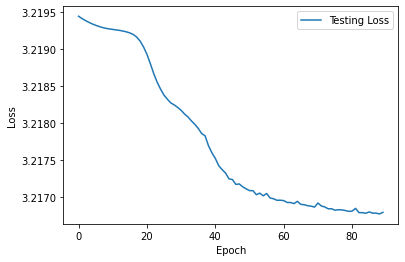
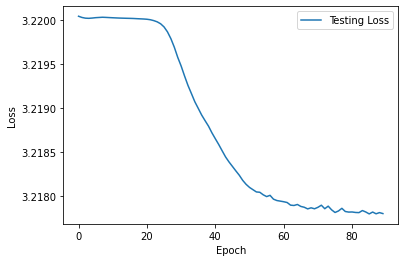
updated README

diff --git a/README.md b/README.md
@@ -1,4 +1,4 @@
-The goal of this work is to study the damage level of buildings after the 2009 earthquake that devastated the italian city "L'Aquila" and its surroundings. The dataset contains info about around 50'000 buildings. The goal is to predict the damage level of each building, which is a categorical variable with 4 levels, using a range of information regarding the buildings such as the number of floors, age of the building, GPS coordinates of the building, etc. 
+The goal of this work is to study the damage level of buildings after the 2009 earthquake that devastated the italian city "L'Aquila" and its surroundings. The dataset contains info about around 50'000 buildings. The goal is to predict the damage level of each building, which is a categorical variable with 4 levels, using a range of information regarding the buildings such as the number of floors, age of the building, latitude and longitude of the building etc. 
 More details about the dataset can be found in the data_preprocessing notebook where we created a one-hot signature for each building. It is worth noting that the model will not be given the coordinates of the epicenters of the earthquakes, but we will show that the model can identify the highest risk area despite this and automatically center it on the epicenters of the earthquakes.
 
 Let's now work on the model to try and predict the damage level of each building. Let's start by importing the necessary libraries and the dataset containing the one-hot signatures created in the previous notebook.
@@ -577,20 +577,20 @@ train(model, train_loader, test_loader, BalancedBCELoss(), optim.Adam(model.para
     
 
 
-    100%|███████████████████████████████████████████████████████████████████████████████████████████████████████████████████████████████████████████████| 90/90 [16:48<00:00, 11.20s/it]
+    100%|█████████████████████████████████████████████████████████████████████████████████████████████████████████████████████████████████| 90/90 [16:16<00:00, 10.85s/it]
 
-    Epoch 90/90: Training Loss: 3.2179 Test Loss: 3.2168 
+    Epoch 90/90: Training Loss: 3.2176 Test Loss: 3.2178 
     Test Score:
                    precision    recall  f1-score   support
     
-               0       0.94      0.53      0.68      7978
-               1       0.12      0.17      0.14       545
-               2       0.14      0.56      0.23       492
-               3       0.10      0.37      0.16       703
+               0       0.93      0.54      0.68      7955
+               1       0.08      0.20      0.12       493
+               2       0.16      0.53      0.25       480
+               3       0.11      0.31      0.16       790
     
         accuracy                           0.50      9718
-       macro avg       0.33      0.41      0.30      9718
-    weighted avg       0.79      0.50      0.59      9718
+       macro avg       0.32      0.40      0.30      9718
+    weighted avg       0.78      0.50      0.59      9718
      
     
 
@@ -633,14 +633,277 @@ risk_map = plot_risk_map_unnormalized(model, train_loader, grid_size=0.01)
 ![png](notebook_files/notebook_27_1.png)
     
 
+
 The plot shows the epicenter of the main event in the 2009 earthquake series as a red cross, while the dots represent the recorded sites in the testing dataset. The dots are color-coded based on their actual damage in the dataset, which ranges from 0 to 3, specifically damage to the staircase structure. However, looking at the damages recorded in the testing dataset alone is insufficient for identifying the highest risk zone. This is because the damage of each building is linked not only to its coordinates but also to its individual building characteristics, such as construction quality or number of floors.
 
 To ensure that the model is deriving useful insights from the data, it is crucial to prove that it can separate the spatial dependency of damage from all other building properties. To achieve this, we created dummy buildings with the same characteristics as those in the dataset, but with different coordinates. These buildings were placed on a grid centered around the epicenter, and the vector representation of each dummy building was provided as input to the trained model. The model predicted the damage level for each building if it were located at the chosen point, and the expected damage for each point on the grid was calculated and averaged.
 
 By averaging over many different buildings for each point, the aim is to cancel out the dependence on all other variables, highlighting only the spatial dependence. This also allowed for the interpolation of a 'continuous' risk map, even for points where no buildings were present.
 
-We can clearly see that the model is able to identify the zone around the epicenter as the highest risk zone. This is despite the fact that the model was not given the coordinates of the epicenter as input. Thus we conclude that our approach is able to separate the coordinate dipendency from the building signature dependency as the highest risk zone is centered around the actual epicenter and is scarcely biased towards the highest population zone.
+We can clearly see that the model is able to identify the zone around the epicenter as the highest risk zone. This is despite the fact that the model was not given the coordinates of the epicenter as input. Thus we conclude that our approach is able to separate the coordinate dependency from the building signature dependency as the highest risk zone is centered around the actual epicenter and is scarcely biased towards the highest population zone.
 
-Once ensthablished this capability, the same procedure can be applied to all building properties in the same way we did for its coordinates, by choosing a property and averaging over dummy buildings. (Coming soon) 
+Once ensthablished this capability, the same procedure can be applied to all building properties in the same way we did for its coordinates, by choosing a property and averaging over dummy buildings.
+
+
+```python
+unique_values_dict = pickle.load(open('unique_values_dict.pkl', 'rb'))
+```
+
+
+```python
+unique_values_dict
+```
+
+
+
+
+    {'identificativoposizioneedificio': array(['Angolo', 'Interno', 'Isolato', 'Estremità'], dtype=object),
+     'sez3_struttura_orizzontale_1': array(['Volte senza catene', 'Travi con soletta rigida',
+            'Travi con soletta semirigida', 'Travi con soletta deformabile',
+            'Volte con catene', 'Non identificata'], dtype=object),
+     'sez2_altezzamediapiano': array(['2.50-3.50', 'Non compilato', '3.50-5.0', '<2.50', '>5.0'],
+           dtype=object),
+     'sez2_pianiinterrati': array([0, 'Non compilato', 1, 2, '>2'], dtype=object),
+     'sez3_struttura_verticale_1': array(['Muratura buona qualità', 'Muratura cattiva qualità',
+            'Non identificata',
+            'Struttura Mista telaio-muratura di buona qualità',
+            'Struttura Mista telaio-muratura di cattiva qualità'], dtype=object),
+     'sez2_numeropiani': array([2, 3, 1, 5, 4, 6, 'Non compilato', 7, 8, 11, 10, 9], dtype=object),
+     'sez2_superficiepiano': array(['50-70', '<50', '130-170', '100-130', 'Non compilato', '70-100',
+            '170-230', '400-500', '230-300', '300-400', '500-650', '650-900',
+            '900-1200', '1600-2200', '1200-1600', '>3000', '2200-3000'],
+           dtype=object),
+     'sez3_pilastriisolati': array(['no', 'si'], dtype=object),
+     'sez2_costruzioneristrutturazione1': array(['<1919', '1992-2001', '1962-1971', '1919-1945', '>2001',
+            '1972-1981', '1946-1961', '1982-1991'], dtype=object),
+     'sez7_morfologia_versante': array(['Pendio leggero', 'Pendio forte', 'Pianura', 'Cresta'],
+           dtype=object),
+     'sez4_danno_strutturale_scale': array(['Danno Nullo', 'Danno Medio', 'Danno Grave', 'Danno Leggero'],
+           dtype=object)}
+
+
+
+
+```python
+def study_dummy_columns(model, loader, unique_values_dict, PLOT = True, VERBOSE = False):
+    model.eval()
+    shapes = [len(v) for v in unique_values_dict.values()]
+    
+    with torch.no_grad():
+        for data in loader:
+            inputs, labels = data
+            inputs, labels = inputs.to(DEVICE), labels.to(DEVICE)
+            categorical_inputs = inputs[:, 2:] # remove lat and long
+            
+            scores = {key: {} for key in unique_values_dict.keys()}
+            
+            for i, column in enumerate(unique_values_dict.keys()): # for each column
+                
+                if i != len(unique_values_dict.keys())-1:
+                    if VERBOSE:
+                        print('\n Column Name: ',column)
+                    offset = sum(shapes[:i])
+                    column_onehot = categorical_inputs[:, offset:offset+shapes[i]]
+                    dummy_categorical_signatures = categorical_inputs.clone()
+                    
+                    for j in range(column_onehot.shape[1]): # for each unique value in the column
+                        if VERBOSE:
+                            print('Value Name:', unique_values_dict[column][j])
+                        dummy_onehot = torch.zeros_like(column_onehot)
+                        
+                        dummy_onehot[:, j] = 1
+                        dummy_categorical_signatures[:, offset:offset+shapes[i]] = dummy_onehot
+                        
+                        dummy_input = torch.cat((inputs[:, :2], dummy_categorical_signatures), dim=1)
+                        
+                        # calculate dummy output 
+                        outputs = model(dummy_input)
+                        classes = torch.argmax(outputs, 1)
+                        
+                        # map classes to colors
+                        damages = class_to_color(classes)
+                        site_damage = torch.mean(damages)
+                        
+                        scores[column][unique_values_dict[column][j]] = site_damage.item()
+            
+            
+            if PLOT:                
+                for column in scores.keys():
+                    fig, ax = plt.subplots()
+                    fig.set_figheight(5)
+                    fig.set_figwidth(20)
+                    
+                    
+                    
+                    # sort scores by value
+                    scores[column] = {k: v for k, v in sorted(scores[column].items(), key=lambda item: item[1])}
+                    
+                    # sort scores by key alphabetically
+                    # scores[column] = {k: v for k, v in sorted(scores[column].items(), key=lambda item: str(item[0]))}
+                    
+                    # plot scores
+                    for key in scores[column].keys():
+                        ax.bar(str(key), scores[column][key])
+                    ax.set_xlabel(column)
+                    ax.set_ylabel('Mean Damage')
+                    ax.set_title(f'Mean Damage for each value in {column}')
+                    plt.show()
+                    
+                        
+                        
+                
+            return scores
+            
+```
+
+
+```python
+scores = study_dummy_columns(model, test_loader, unique_values_dict)
+```
+
+
+    
+![png](notebook_files/notebook_32_0.png)
+    
+
+
+
+    
+![png](notebook_files/notebook_32_1.png)
+    
+
+
+
+    
+![png](notebook_files/notebook_32_2.png)
+    
+
+
+
+    
+![png](notebook_files/notebook_32_3.png)
+    
+
+
+
+    
+![png](notebook_files/notebook_32_4.png)
+    
+
+
+
+    
+![png](notebook_files/notebook_32_5.png)
+    
+
+
+
+    
+![png](notebook_files/notebook_32_6.png)
+    
+
+
+
+    
+![png](notebook_files/notebook_32_7.png)
+    
+
+
+
+    
+![png](notebook_files/notebook_32_8.png)
+    
+
+
+
+    
+![png](notebook_files/notebook_32_9.png)
+    
+
+
+
+    
+![png](notebook_files/notebook_32_10.png)
+    
+
+
+
+```python
+scores
+```
+
+
+
+
+    {'identificativoposizioneedificio': {'Isolato': 0.9175756573677063,
+      'Estremità': 1.0007202625274658,
+      'Interno': 1.0412635803222656,
+      'Angolo': 1.0893187522888184},
+     'sez3_struttura_orizzontale_1': {'Travi con soletta rigida': 0.255505234003067,
+      'Travi con soletta semirigida': 0.7402758002281189,
+      'Non identificata': 1.1491047143936157,
+      'Volte senza catene': 1.2664128541946411,
+      'Travi con soletta deformabile': 1.320230484008789,
+      'Volte con catene': 1.4239555597305298},
+     'sez2_altezzamediapiano': {'>5.0': 0.8148795962333679,
+      '3.50-5.0': 0.9623379111289978,
+      '<2.50': 0.9821979999542236,
+      '2.50-3.50': 1.004939317703247,
+      'Non compilato': 1.225766658782959},
+     'sez2_pianiinterrati': {2: 0.816217303276062,
+      1: 0.8660218119621277,
+      0: 1.0364272594451904,
+      'Non compilato': 1.2268985509872437,
+      '>2': 1.8349454402923584},
+     'sez3_struttura_verticale_1': {'Muratura buona qualità': 0.5155381560325623,
+      'Struttura Mista telaio-muratura di buona qualità': 0.5871578454971313,
+      'Struttura Mista telaio-muratura di cattiva qualità': 0.8489401340484619,
+      'Non identificata': 1.0860259532928467,
+      'Muratura cattiva qualità': 1.1521917581558228},
+     'sez2_numeropiani': {10: 0.001852232962846756,
+      11: 0.02510804682970047,
+      9: 0.05309734493494034,
+      1: 0.11175139248371124,
+      'Non compilato': 0.62142413854599,
+      2: 0.8843383193016052,
+      3: 1.1261576414108276,
+      4: 1.173183798789978,
+      8: 1.3920559883117676,
+      5: 1.4177814722061157,
+      7: 1.665157437324524,
+      6: 2.1639225482940674},
+     'sez2_superficiepiano': {'>3000': 0.09034781157970428,
+      '<50': 0.864889919757843,
+      '50-70': 0.990224301815033,
+      '70-100': 1.1017699241638184,
+      '100-130': 1.1040337085723877,
+      'Non compilato': 1.1945873498916626,
+      '130-170': 1.2261781692504883,
+      '170-230': 1.23502779006958,
+      '230-300': 1.312204122543335,
+      '650-900': 1.3627289533615112,
+      '300-400': 1.4289977550506592,
+      '500-650': 1.5423955917358398,
+      '1600-2200': 1.649825096130371,
+      '1200-1600': 1.7735130786895752,
+      '2200-3000': 1.8093229532241821,
+      '400-500': 1.9116073846817017,
+      '900-1200': 1.9705700874328613},
+     'sez3_pilastriisolati': {'si': 0.791520893573761, 'no': 1.0192426443099976},
+     'sez2_costruzioneristrutturazione1': {'1992-2001': 0.3444124162197113,
+      '1972-1981': 0.34996911883354187,
+      '1982-1991': 0.38022226095199585,
+      '>2001': 0.38104549050331116,
+      '1962-1971': 0.6654661297798157,
+      '1946-1961': 0.7513891458511353,
+      '1919-1945': 1.0112162828445435,
+      '<1919': 1.172257661819458},
+     'sez7_morfologia_versante': {'Pendio forte': 0.9186046719551086,
+      'Cresta': 1.0006173849105835,
+      'Pianura': 1.0405433177947998,
+      'Pendio leggero': 1.0477464199066162},
+     'sez4_danno_strutturale_scale': {}}
+
+
 
 
